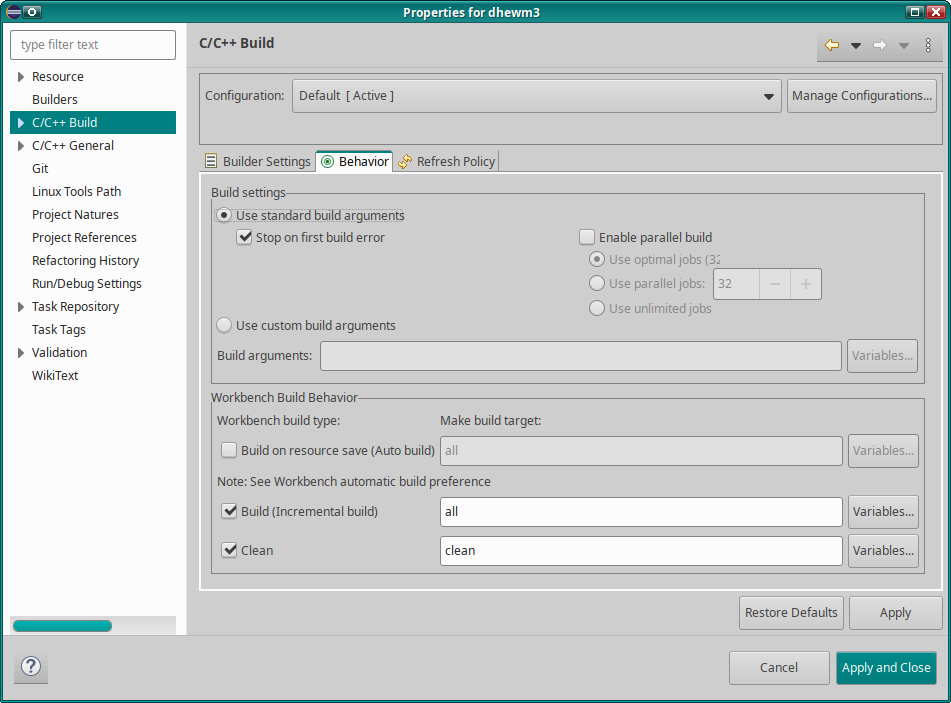
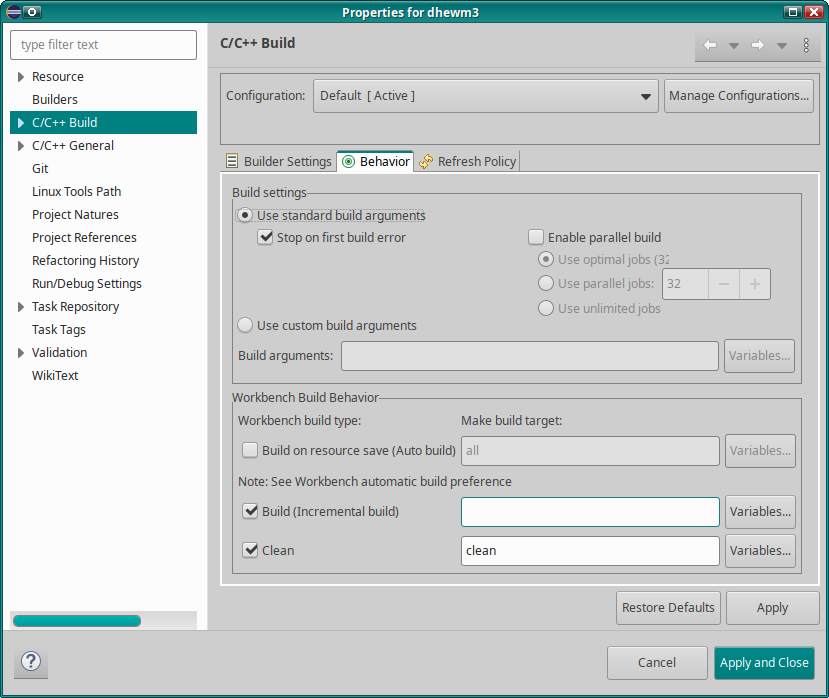
Eclipse CDT article: Fix image link, replace 2 images with better ones

diff --git a/content/post/eclipse-cdt-setup.md b/content/post/eclipse-cdt-setup.md
@@ -64,7 +64,7 @@ If you don't build in your project root, select the build directory to use under
 
 Now switch into the `Behavior` tab:
 
-![Behavior tab of build settings](/images/eclipse-cdt-buildsettings.png)
+![Behavior tab of build settings](/images/eclipse-cdt-build-behavior.png)
 
 If your default build command isn't `make all` (or `ninja all` if you entered "ninja" in the 
 previous step), change the `Build (Incremental build)` argument accordingly (for ninja you probably
